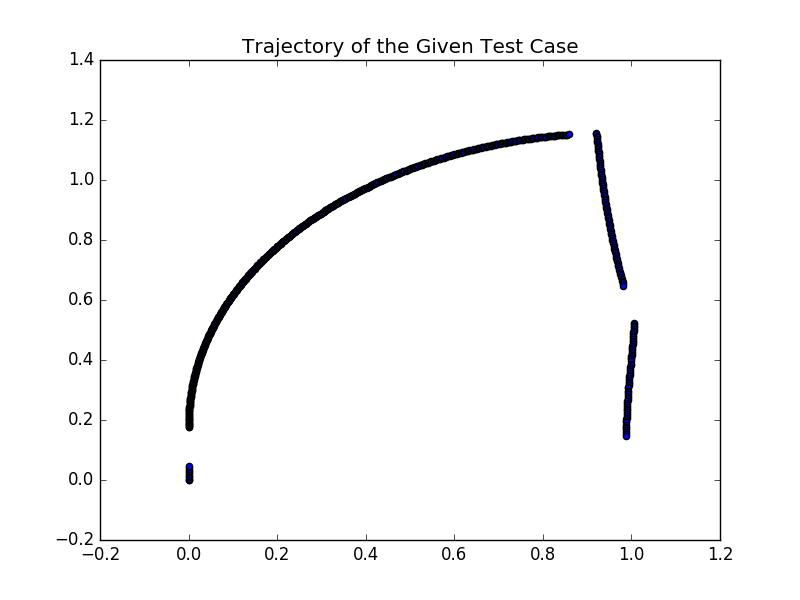
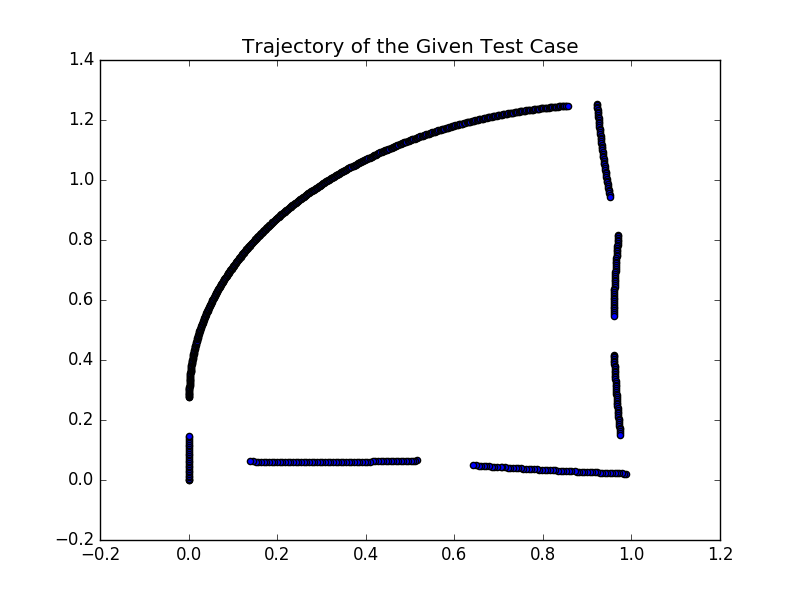
add return to 0

diff --git a/proj/02/sim/kick_forward.py b/proj/02/sim/kick_forward.py
@@ -21,7 +21,7 @@ import matplotlib.pyplot as plt
 #These coordinates are in the "world" coordinate frame
 ''' waypoint of a half circle '''
 # waypoints = np.array([[0,0], [0.012,0.156], [0.049,0.309], [0.109,0.454], [0.191,0.588], [0.293,0.707], [0.412,0.809], [0.546,0.891], [0.691,0.951], [0.844, 0.988], [1,1]])
-waypoints = np.array([[0,0], [0,-0.5], [0,-1]])
+waypoints = np.array([[0,0], [0,-0.5], [0,-1], [0,-0.5], [0,0]])
 curr_point = np.array([0])
 next_point = np.array([0])
 ptr = 0
@@ -34,7 +34,7 @@ EPSILON = 0.2   # FIXME
 dist_thresh = 0.15   # FIXME
 RAD = 2 * pi / 360
 kp = 1              # FIXME: set an estimated proper kp value
-v_ang = 80          # FIXME
+v_ang = 10          # FIXME
 x = np.array([0])
 y = np.array([0])
 

diff --git a/proj/02/test/kick_forward.py b/proj/02/test/kick_forward.py
@@ -21,7 +21,7 @@ import matplotlib.pyplot as plt
 #These coordinates are in the "world" coordinate frame
 ''' waypoint of a half circle '''
 # waypoints = np.array([[0,0], [0.012,0.156], [0.049,0.309], [0.109,0.454], [0.191,0.588], [0.293,0.707], [0.412,0.809], [0.546,0.891], [0.691,0.951], [0.844, 0.988], [1,1]])
-waypoints = np.array([[0,0], [0,-0.5], [0,-1]])
+waypoints = np.array([[0,0], [0,-0.5], [0,-1], [0,-0.5], [0,0]])
 curr_point = np.array([0])
 next_point = np.array([0])
 ptr = 0
@@ -34,7 +34,7 @@ EPSILON = 0.2   # FIXME
 dist_thresh = 0.15   # FIXME
 RAD = 2 * pi / 360
 kp = 1              # FIXME: set an estimated proper kp value
-v_ang = 10          # FIXME
+v_ang = 80          # FIXME
 x = np.array([0])
 y = np.array([0])
 

diff --git a/proj/03/sim/smooth_waypoints.py b/proj/03/sim/smooth_waypoints.py
@@ -21,7 +21,8 @@ import matplotlib.pyplot as plt
 #these waypoints are given as list for convience, however, you can use any data type that you like
 #These coordinates are in the "world" coordinate frame
 # waypoints = np.array([[0,0], [0.012,0.156], [0.049,0.309], [0.109,0.454], [0.191,0.588], [0.293,0.707], [0.412,0.809], [0.546,0.891], [0.691,0.951], [0.844, 0.988], [1,1]])
-waypoints = np.array([[0,0], [0,0.2], [-0.7,0.5], [-0.7,0], [-0.7,-0.4], [-0.7,-0.7]])
+waypoints = np.array([[0,0], [0,0.2], [-0.7,0.5], [-0.7,0], [-0.7,-0.4], [-0.7,-0.7], [-0.3,-0.7], [0,-0.7], [0,-0.3], [0,0]])
+# FIXME: waypoints can be modified
 curr_point = np.array([0])
 next_point = np.array([0])
 ptr = 0

diff --git a/proj/01/sim/smooth_waypoints.py b/proj/01/sim/smooth_waypoints.py
@@ -21,7 +21,7 @@ import matplotlib.pyplot as plt
 #these waypoints are given as list for convience, however, you can use any data type that you like
 #These coordinates are in the "world" coordinate frame
 # waypoints = np.array([[0,0], [0.012,0.156], [0.049,0.309], [0.109,0.454], [0.191,0.588], [0.293,0.707], [0.412,0.809], [0.546,0.891], [0.691,0.951], [0.844, 0.988], [1,1]])
-waypoints = np.array([[0,0], [0,0.3], [1,1.3], [1,0.8], [1,0.4], [1,0]])
+waypoints = np.array([[0,0], [0,0.3], [1,1.3], [1,0.8], [1,0.4], [1,0], [0.5,0], [0,0]])
 curr_point = np.array([0])
 next_point = np.array([0])
 ptr = 0

diff --git a/proj/01/test/smooth_waypoints.py b/proj/01/test/smooth_waypoints.py
@@ -21,7 +21,7 @@ import matplotlib.pyplot as plt
 #these waypoints are given as list for convience, however, you can use any data type that you like
 #These coordinates are in the "world" coordinate frame
 # waypoints = np.array([[0,0], [0.012,0.156], [0.049,0.309], [0.109,0.454], [0.191,0.588], [0.293,0.707], [0.412,0.809], [0.546,0.891], [0.691,0.951], [0.844, 0.988], [1,1]])
-waypoints = np.array([[0,0], [0,0.3], [1,1.3], [1,0.8], [1,0.4], [1,0]])
+waypoints = np.array([[0,0], [0,0.3], [1,1.3], [1,0.8], [1,0.4], [1,0], [0.5,0], [0,0]])
 curr_point = np.array([0])
 next_point = np.array([0])
 ptr = 0

diff --git a/proj/01/sim/naive_waypoints.py b/proj/01/sim/naive_waypoints.py
@@ -24,7 +24,7 @@ import matplotlib.pyplot as plt
 ''' waypoint of a half circle '''
 # waypoints = np.array([[0,0], [0.012,0.156], [0.049,0.309], [0.109,0.454], [0.191,0.588], [0.293,0.707], [0.412,0.809], [0.546,0.891], [0.691,0.951], [0.844, 0.988], [1,1]])
 # waypoints = np.array([[0,0], [0.3,0.3], [0.5,0.5], [0.8,0.8], [1,1], [1,0.5], [1,0]])
-waypoints = np.array([[0,0], [1,1], [1,0.5], [1,0]])
+waypoints = np.array([[0,0], [1,1], [1,0.5], [1,0],[0.5,0], [0,0]])
 curr_point = np.array([0])
 next_point = np.array([0])
 ptr = 0

diff --git a/proj/01/test/naive_waypoints.py b/proj/01/test/naive_waypoints.py
@@ -24,7 +24,7 @@ import matplotlib.pyplot as plt
 ''' waypoint of a half circle '''
 # waypoints = np.array([[0,0], [0.012,0.156], [0.049,0.309], [0.109,0.454], [0.191,0.588], [0.293,0.707], [0.412,0.809], [0.546,0.891], [0.691,0.951], [0.844, 0.988], [1,1]])
 # waypoints = np.array([[0,0], [0.3,0.3], [0.5,0.5], [0.8,0.8], [1,1], [1,0.5], [1,0]])
-waypoints = np.array([[0,0], [1,1], [1,0.5], [1,0]])
+waypoints = np.array([[0,0], [1,1], [1,0.5], [1,0],[0.5,0], [0,0]])
 curr_point = np.array([0])
 next_point = np.array([0])
 ptr = 0
